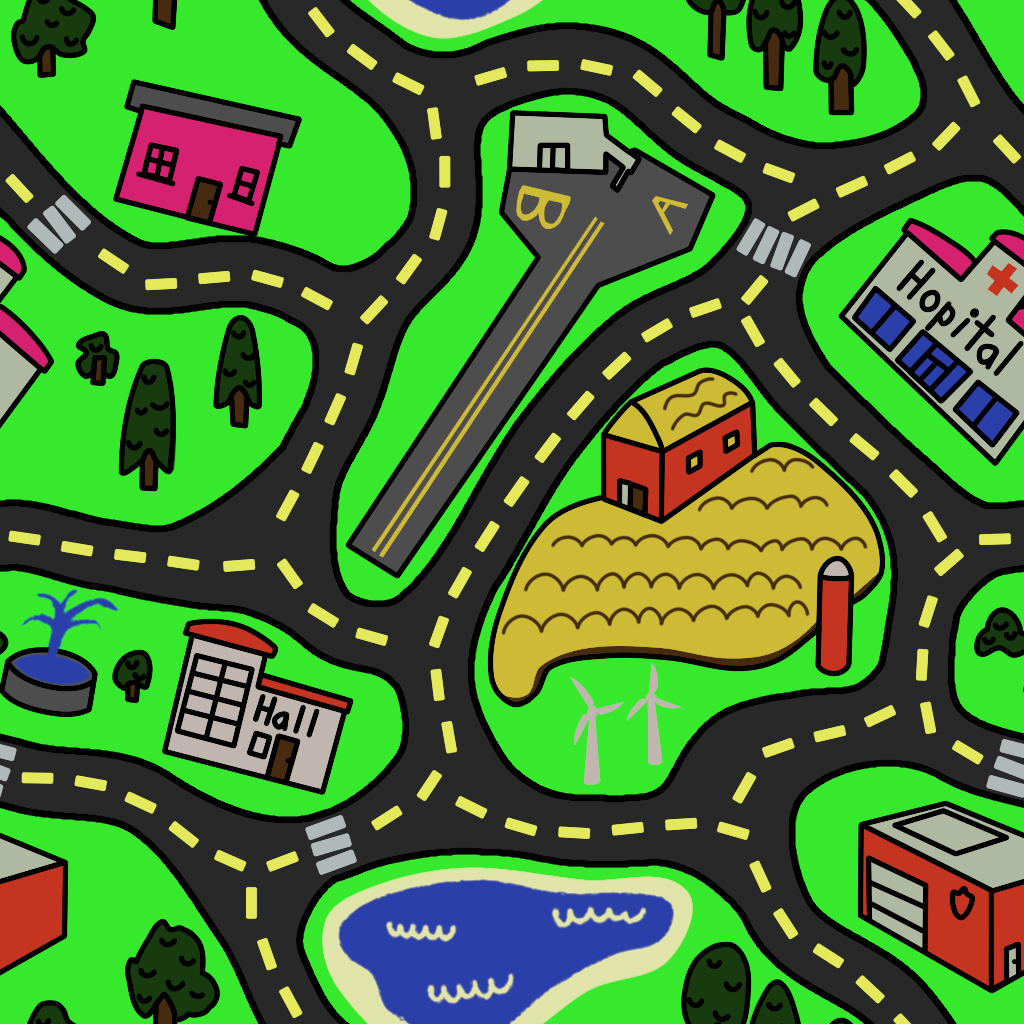
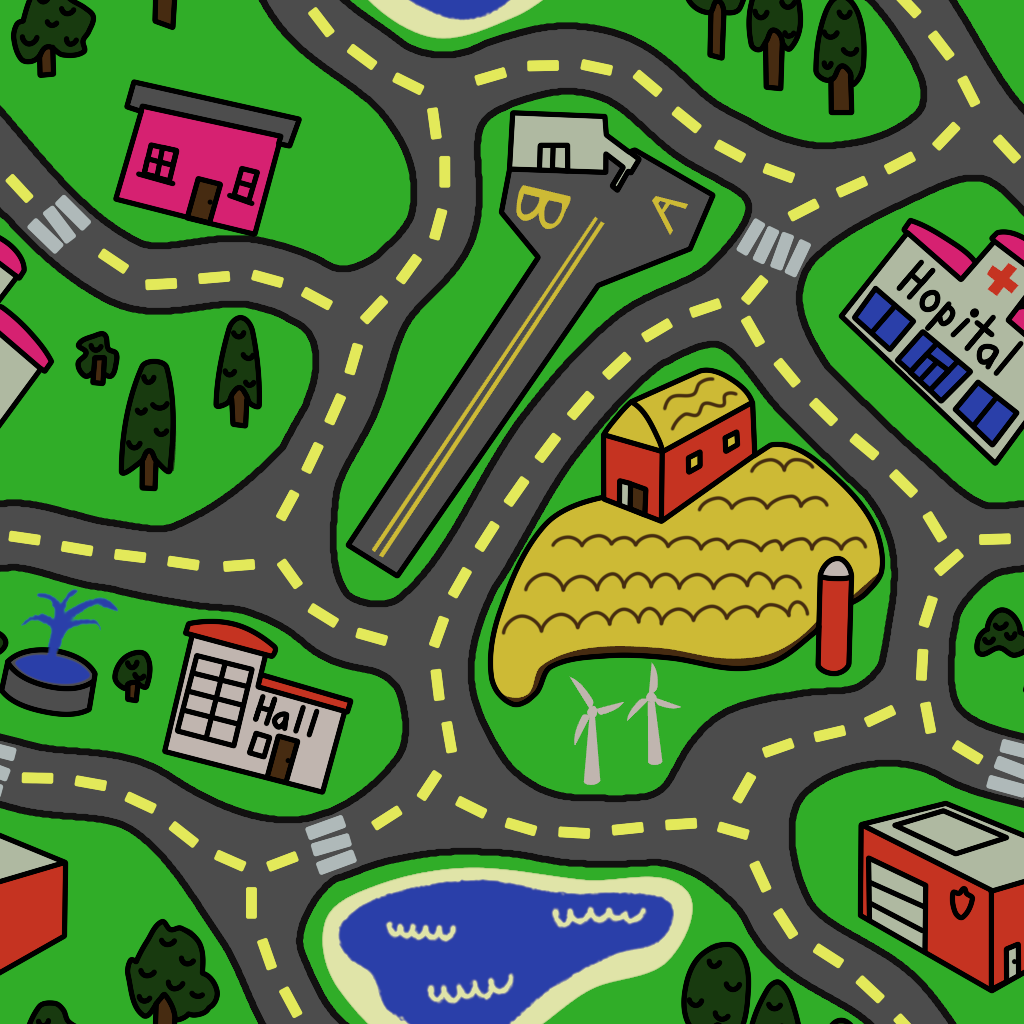
Background test 14

diff --git a/_sass/layout/_page.scss b/_sass/layout/_page.scss
@@ -351,6 +351,9 @@
 .comment__content-wrapper {
   float: right;
   width: calc(100% - 60px);
+  background-color: var(--global-content-bg);
+  padding: 1rem;
+  border-radius: $border-radius;
 
   @include breakpoint($large) {
     width: calc(100% - 100px);
@@ -359,7 +362,6 @@
 
 .comment__author {
   margin: 0;
-  background-color: var(--global-content-bg);
 
   a {
     text-decoration: none;
